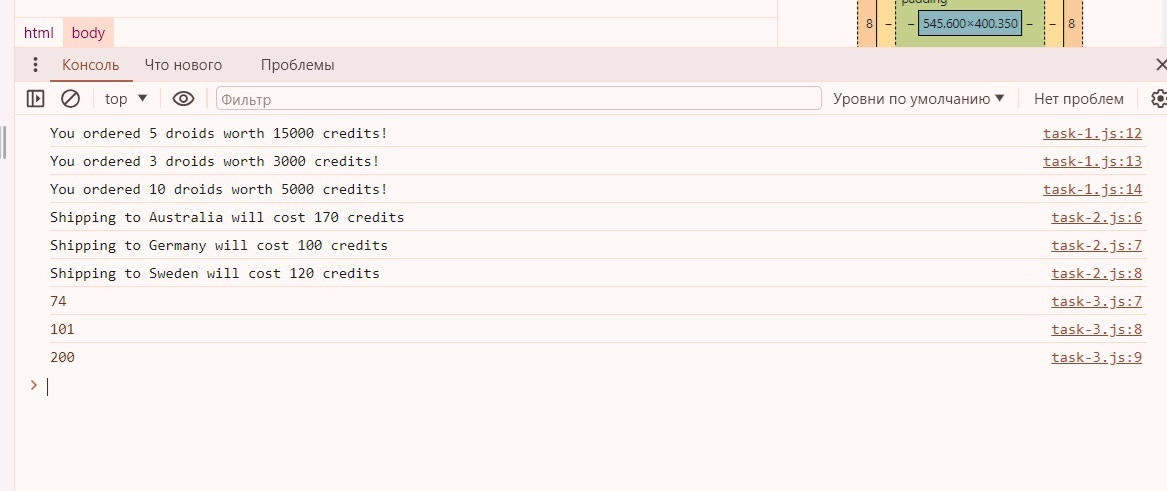
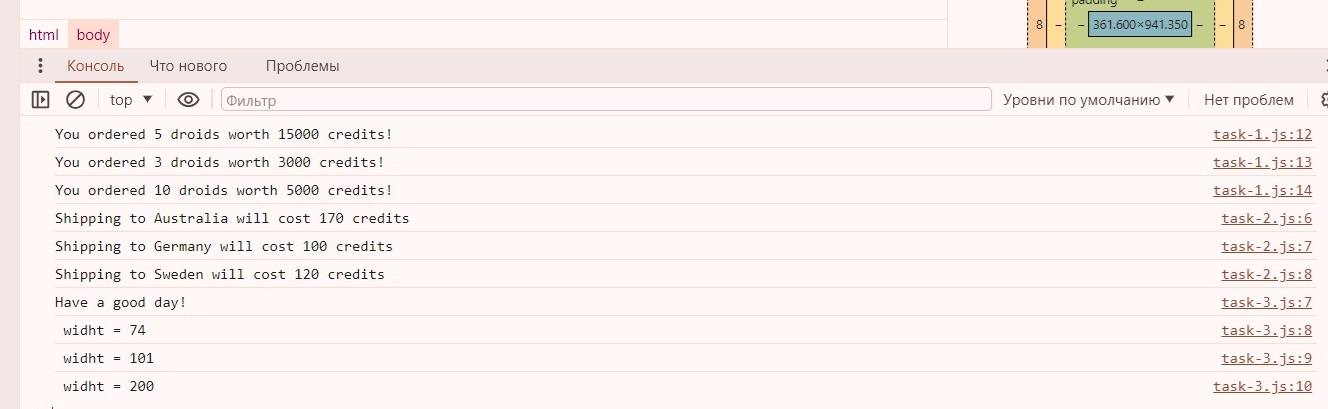
commit

diff --git a/js/task-3.js b/js/task-3.js
@@ -1,9 +1,10 @@
 function getElementWidth(content, padding, border) {
- 
-    return Number.parseFloat(content) + Number.parseFloat(border) * 2 + Number.parseFloat(padding) * 2;
+    widht = Number.parseFloat(content) + Number.parseFloat(border) * 2 + Number.parseFloat(padding) * 2;
+
+    return ` widht = ${widht}`;
 };
 
-
+console.log('Have a good day!');
 console.log(getElementWidth("50px", "8px", "4px")); // 74
 console.log(getElementWidth("60px", "12px", "8.5px")); // 101
 console.log(getElementWidth("200px", "0px", "0px")); // 200
